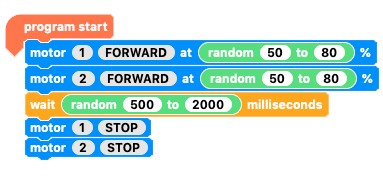
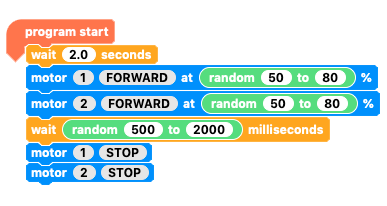
gif images ands8

diff --git a/en/step_8.md b/en/step_8.md
@@ -44,9 +44,11 @@ Duplicate either of the `random 50 to 80`{:class="crumbleoperators"} blocks, pla
 
 --- /task ---
 
-This is a good time to test the code so far, but before we do that we need to add code to `stop`{:class="crumbleinputoutput"} the `motors`{:class="crumbleinputoutput"}.
+This is a good time to test the code so far, but before we do that we need to add code to `stop`{:class="crumbleinputoutput"} the `motors`{:class="crumbleinputoutput"} and a short `wait`{:class="crumblecontrol"} at the start of our code.
 
 --- task ---
+
+Add a `2 second wait`{:class="crumblecontrol"} at the start of the code.
 
 Get two `motor`{:class="crumbleinputoutput"} blocks and set `motors 1 and 2`{:class="crumbleinputoutput"} to `stop`{:class="crumbleinputoutput"}. Add them to the end of your code so far
 
